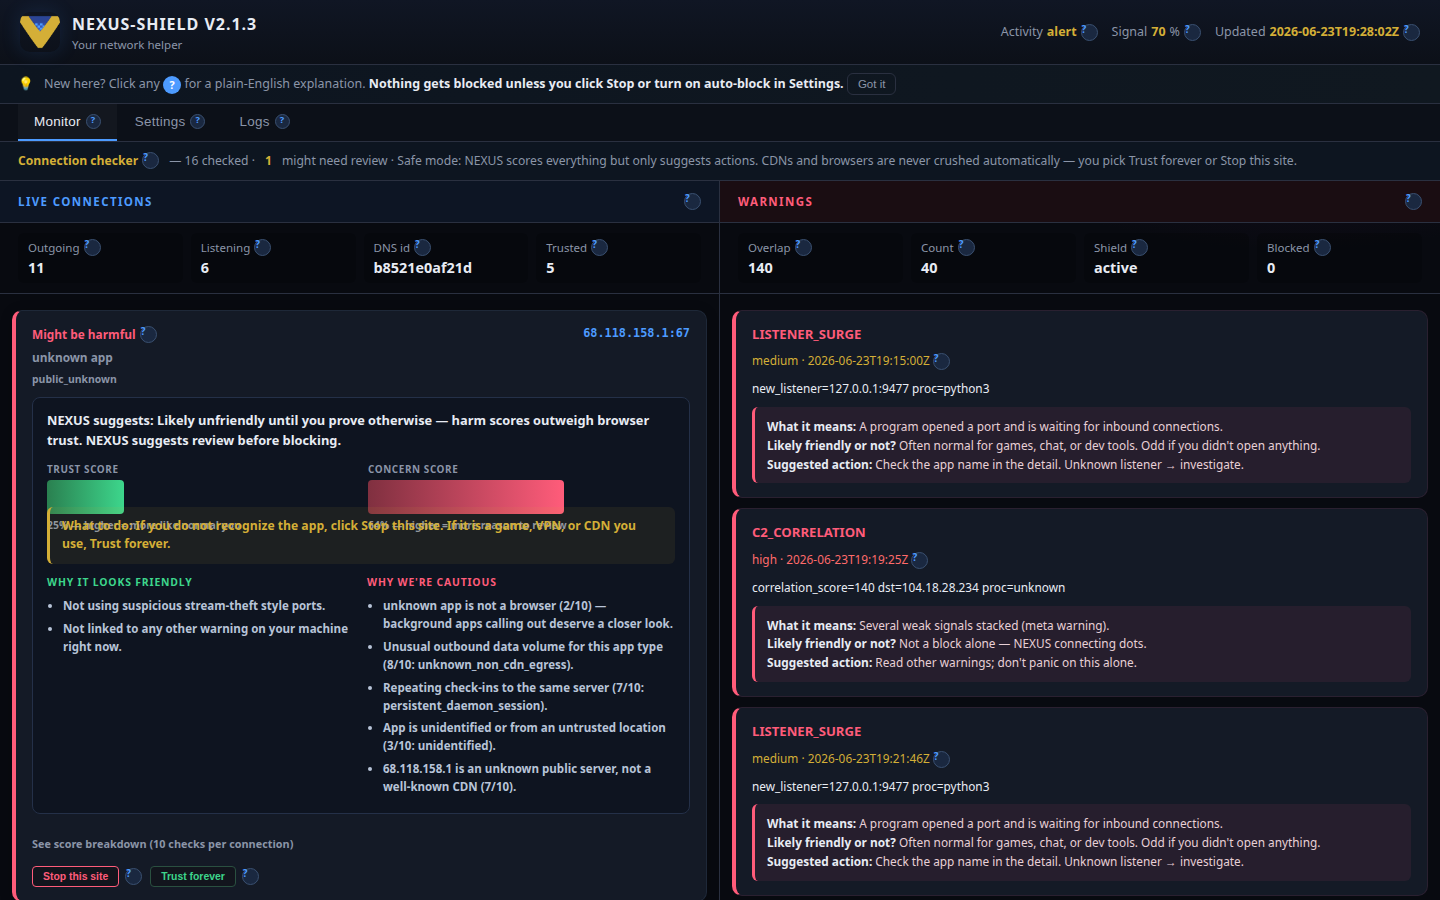
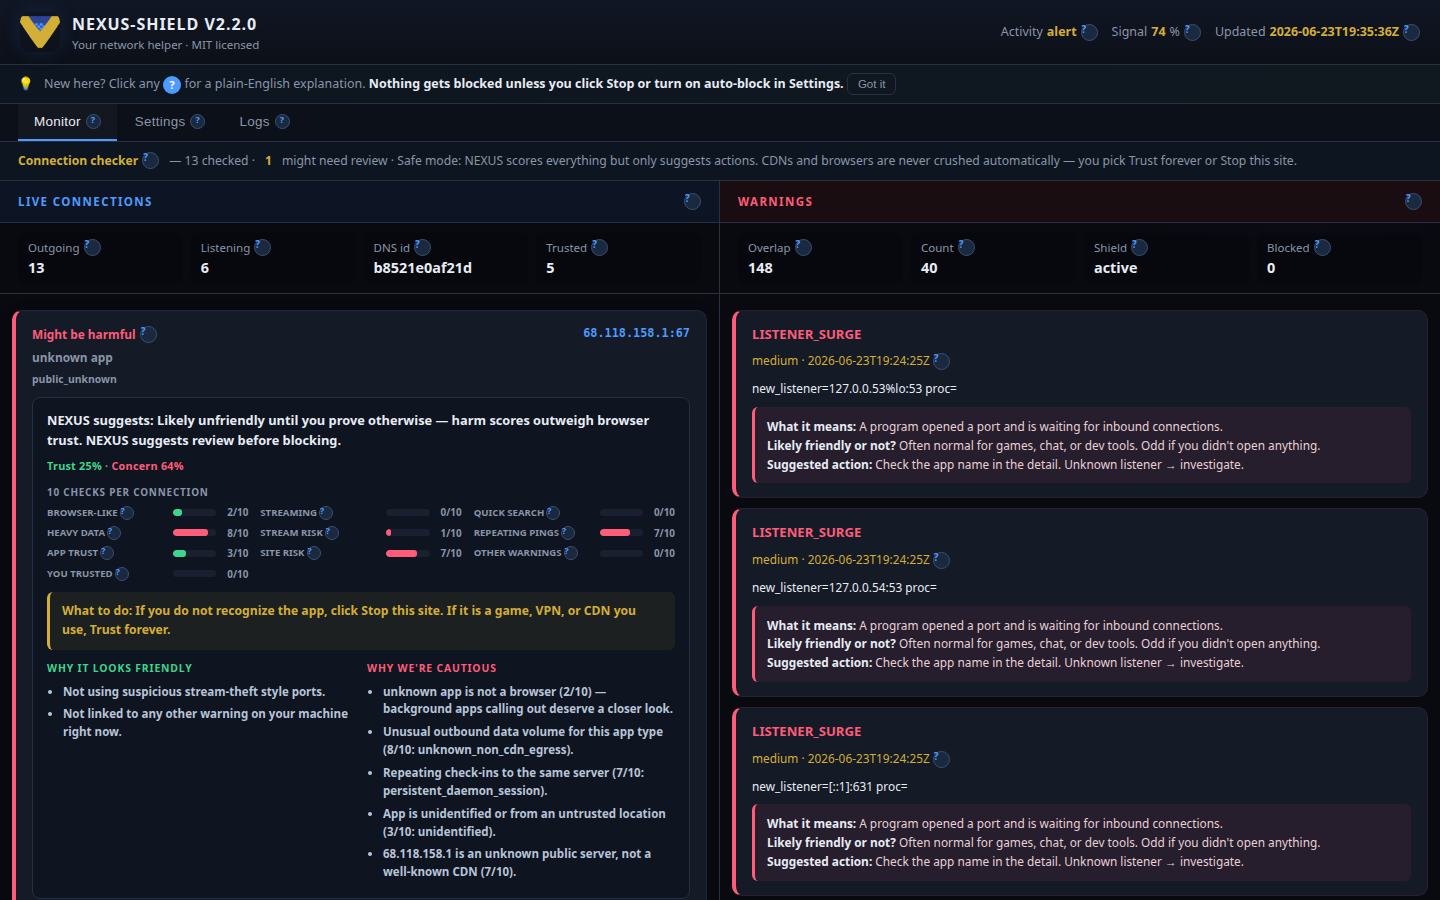
v2.2.0: everyday auto-settings and 10-bar score layout
- Apply consumer defaults on install (no auto-block, light watchers)
- Whitelist email/chat apps; gatekeeper scores Thunderbird and YouTube traffic friendly
- Replace twin trust/concern meters with prominent 10-axis bar grid per connection
- Add tests for consumer defaults, email/youtube scoring, and panel layout

diff --git a/panel/threat-panel.html b/panel/threat-panel.html
@@ -156,14 +156,28 @@
     .intent-row.verdict-SUSPICIOUS { border-left: 4px solid var(--gold); }
     .intent-row.verdict-HARM_CANDIDATE { border-left: 4px solid var(--threat); }
     .intent-row.verdict-MONITOR { border-left: 4px solid var(--muted); }
-    .score-meters { display: flex; gap: 14px; margin: 0; flex-wrap: wrap; }
-    .meter { flex: 1; min-width: 130px; }
-    .meter label { display: block; font-size: 0.62rem; color: var(--muted); margin-bottom: 4px; text-transform: uppercase; letter-spacing: 0.06em; }
-    .meter bar { height: 6px; background: #1a2030; border-radius: 4px; overflow: hidden; }
-    .meter bar span { display: block; height: 100%; border-radius: 4px; transition: width 0.3s ease; }
-    .meter.trust bar span { background: linear-gradient(90deg, #2a8050, var(--ok)); }
-    .meter.concern bar span { background: linear-gradient(90deg, #803040, var(--threat)); }
-    .meter .val { font-size: 0.65rem; color: var(--muted); margin-top: 4px; line-height: 1.5; }
+    .score-chips {
+      display: block; margin-top: 6px; font-size: 0.68rem; color: var(--muted); letter-spacing: 0.02em;
+    }
+    .score-chips .trust-chip { color: var(--ok); }
+    .score-chips .concern-chip { color: var(--threat); }
+    .axis-breakdown { margin: 0; }
+    .axis-breakdown-title {
+      margin: 0 0 6px; font-size: 0.62rem; letter-spacing: 0.08em;
+      text-transform: uppercase; color: var(--muted);
+    }
+    .axis-grid-prominent {
+      display: flex; flex-direction: column; gap: 5px;
+    }
+    .axis-grid-prominent .axis {
+      grid-template-columns: minmax(88px, 118px) minmax(0, 1fr) 24px;
+      gap: 6px 8px;
+    }
+    .axis-grid-prominent .axis label {
+      font-size: 0.6rem; white-space: normal; line-height: 1.25;
+      overflow: visible; text-overflow: unset;
+    }
+    .axis-grid-prominent .axis bar { height: 7px; border-radius: 4px; }
     .suggestion-box {
       margin: 0; padding: 12px 14px; border-radius: 8px;
       background: #0e1420; border: 1px solid #243048;
@@ -422,7 +436,7 @@
     <div class="brand">
       <img src="/assets/nexus-shield.png" alt="" class="brand-icon" width="40" height="40" />
       <div>
-        <h1>NEXUS-Shield v2.1.4</h1>
+        <h1>NEXUS-Shield v2.2.0</h1>
         <div class="brand-sub">Your network helper · MIT licensed</div>
       </div>
     </div>
@@ -858,7 +872,7 @@
       },
     };
 
-    function renderSuggestionBox(sug, verdict) {
+    function renderSuggestionBox(sug, verdict, scores) {
       if (!sug) return "";
       const friendly = sug.friendly_signals || [];
       const unfriendly = sug.unfriendly_signals || [];
@@ -871,12 +885,13 @@
           <div class="signal-col unfriendly"><h4>Why we're cautious</h4><ul>${unfriendly.map((x) => `<li>${esc(x)}</li>`).join("") || "<li>—</li>"}</ul></div>
         </div>`;
       }
+      const axisBars = scores
+        ? `<div class="axis-breakdown"><div class="axis-breakdown-title">10 checks per connection</div><div class="axis-grid axis-grid-prominent">${renderAxisBars(scores)}</div></div>`
+        : "";
       return `<div class="suggestion-box verdict-${verdict}">
-        <div class="summary"><strong>NEXUS suggests:</strong> ${esc(sug.summary || "")}</div>
-        <div class="score-meters">
-          <div class="meter trust"><label>Trust score</label><bar><span style="width:${trustPct}%"></span></bar><div class="val">${trustPct}% — higher = more like normal you</div></div>
-          <div class="meter concern"><label>Concern score</label><bar><span style="width:${concernPct}%"></span></bar><div class="val">${concernPct}% — higher = more reason to review</div></div>
-        </div>
+        <div class="summary"><strong>NEXUS suggests:</strong> ${esc(sug.summary || "")}
+          <span class="score-chips"><span class="trust-chip">Trust ${trustPct}%</span> · <span class="concern-chip">Concern ${concernPct}%</span></span></div>
+        ${axisBars}
         <div class="action"><strong>What to do:</strong> ${esc(sug.action || "")}</div>
         ${signals}
       </div>`;
@@ -1409,12 +1424,8 @@
               <span class="proc" title="Program using this connection">${c.process || "unknown app"}</span>
               <span class="meta">${c.ip_class || ""}</span>
             </div>
-            ${renderSuggestionBox(sug, v)}
-            <details class="axis-details">
-              <summary>See score breakdown (10 checks per connection)</summary>
-              <div class="intent-reason">${c.reason || ""}</div>
-              <div class="axis-grid">${renderAxisBars(c.scores)}</div>
-            </details>
+            ${renderSuggestionBox(sug, v, c.scores)}
+            ${c.reason ? `<details class="axis-details"><summary>Technical notes</summary><div class="intent-reason">${esc(c.reason)}</div></details>` : ""}
             <div class="intent-actions">${actions.join("")}</div>
           </div>`;
         }).join("");

diff --git a/lib/connection-gatekeeper.py b/lib/connection-gatekeeper.py
@@ -20,13 +20,19 @@ TRUSTED_TSV = STATE / "firewall-trusted.tsv"
 THREATS_TSV = STATE / "threat-vectors.tsv"
 
 BROWSER_PROCS = frozenset({
-    "firefox", "chrome", "chromium", "brave", "vivaldi", "opera",
+    "firefox", "chrome", "chromium", "brave", "brave-browser", "vivaldi", "opera",
     "msedge", "waterfox", "librewolf", "floorp", "thorium",
+    "google-chrome", "google-chrome-stable",
 })
-MEDIA_PROCS = BROWSER_PROCS | frozenset({
+EMAIL_PROCS = frozenset({
+    "thunderbird", "betterbird", "evolution", "geary", "mailspring", "kmail",
+    "sylpheed", "claws-mail", "slack", "zoom", "zoomclient", "teams", "teams-for-linux",
+})
+MEDIA_PROCS = BROWSER_PROCS | EMAIL_PROCS | frozenset({
     "vlc", "mpv", "totem", "spotify", "discord", "obs", "ffmpeg",
     "youtube", "celluloid", "streamlink", "grok",
 })
+CONSUMER_PROCS = BROWSER_PROCS | EMAIL_PROCS | MEDIA_PROCS
 SEARCH_CDN_PREFIXES = (
     "34.", "35.", "142.250.", "172.217.", "216.58.",  # Google
     "13.", "20.", "40.", "52.", "104.",  # Azure/CF misc
@@ -157,6 +163,8 @@ def _ip_class(ip: str) -> str:
 def _axis_user_browser(proc: str) -> tuple[int, str]:
     if proc in BROWSER_PROCS:
         return 9, f"browser:{proc}"
+    if proc in EMAIL_PROCS:
+        return 8, f"email:{proc}"
     if proc in MEDIA_PROCS:
         return 7, f"media_app:{proc}"
     if proc in ("", "pid-unknown"):
@@ -206,7 +214,7 @@ def _axis_search_ephemeral(key: str, history: dict, ip_class: str) -> tuple[int,
 
 
 def _axis_bandwidth_abuse(proc: str, ip_class: str, rport: str) -> tuple[int, str]:
-    if proc in BROWSER_PROCS | MEDIA_PROCS:
+    if proc in CONSUMER_PROCS:
         return 1, "user_app_expected"
     if ip_class == "public_unknown" and rport == "443":
         return 6, "unknown_bulk_https"
@@ -216,7 +224,7 @@ def _axis_bandwidth_abuse(proc: str, ip_class: str, rport: str) -> tuple[int, st
 
 
 def _axis_stream_theft(proc: str, rport: str, lip: str) -> tuple[int, str]:
-    if proc in BROWSER_PROCS | MEDIA_PROCS:
+    if proc in CONSUMER_PROCS:
         return 0, "user_media_path"
     if rport in ("1935", "554", "8554", "8081", "9000"):
         return 10, "non_browser_stream_port"
@@ -242,6 +250,8 @@ def _axis_beacon(proc: str, key: str, history: dict) -> tuple[int, str]:
 def _axis_process_trust(proc: str) -> tuple[int, str]:
     if proc in BROWSER_PROCS:
         return 10, "signed_browser"
+    if proc in EMAIL_PROCS:
+        return 9, "known_email"
     if proc in MEDIA_PROCS:
         return 8, "known_media"
     if "/tmp/" in proc or "/dev/shm/" in proc or proc.startswith("."):
@@ -300,7 +310,9 @@ def _build_suggestion(
     proc_name = proc or "unknown app"
 
     ub = int(scores.get("user_browser", 0))
-    if ub >= 7:
+    if proc in EMAIL_PROCS:
+        friendly.append(f"{proc_name} is a mail or chat app — everyday email and messaging ({ub}/10).")
+    elif ub >= 7:
         friendly.append(f"{proc_name} looks like a browser or media app you opened ({ub}/10).")
     elif ub <= 3:
         unfriendly.append(

diff --git a/docs/capture-screenshots.py b/docs/capture-screenshots.py
@@ -35,6 +35,8 @@ def main() -> int:
         page.wait_for_timeout(2000)
         for filename, view in VIEWS:
             page.click(f'nav.menu button[data-view="{view}"]')
+            if view == "monitor":
+                page.wait_for_selector(".axis-grid-prominent", timeout=15000)
             page.wait_for_timeout(1500 if view != "logs" else 2500)
             page.screenshot(path=str(OUT / filename), full_page=False)
             print(f"wrote {OUT / filename}")

diff --git a/README.md b/README.md
@@ -36,6 +36,12 @@ sudo ./stealth_install.sh
 
 ---
 
+## v2.2.0 — everyday mode
+
+- **Auto settings on install** — everyday profile for email, YouTube, and browsing (no auto-block, light watchers)
+- **10-bar score layout** — all axis bars visible per connection; trust/concern as compact chips (no fat twin meters)
+- **Consumer whitelist** — Thunderbird, Evolution, Chrome, Slack, Zoom, Spotify, and more pre-trusted
+
 ## v2.1.4 — licensing clarity
 
 - **NEXUS-Shield = MIT** called out in README, panel footer, install output, and [Licensing wiki](https://github.com/ZacharyGeurts/NEXUS-Shield/wiki/Licensing)